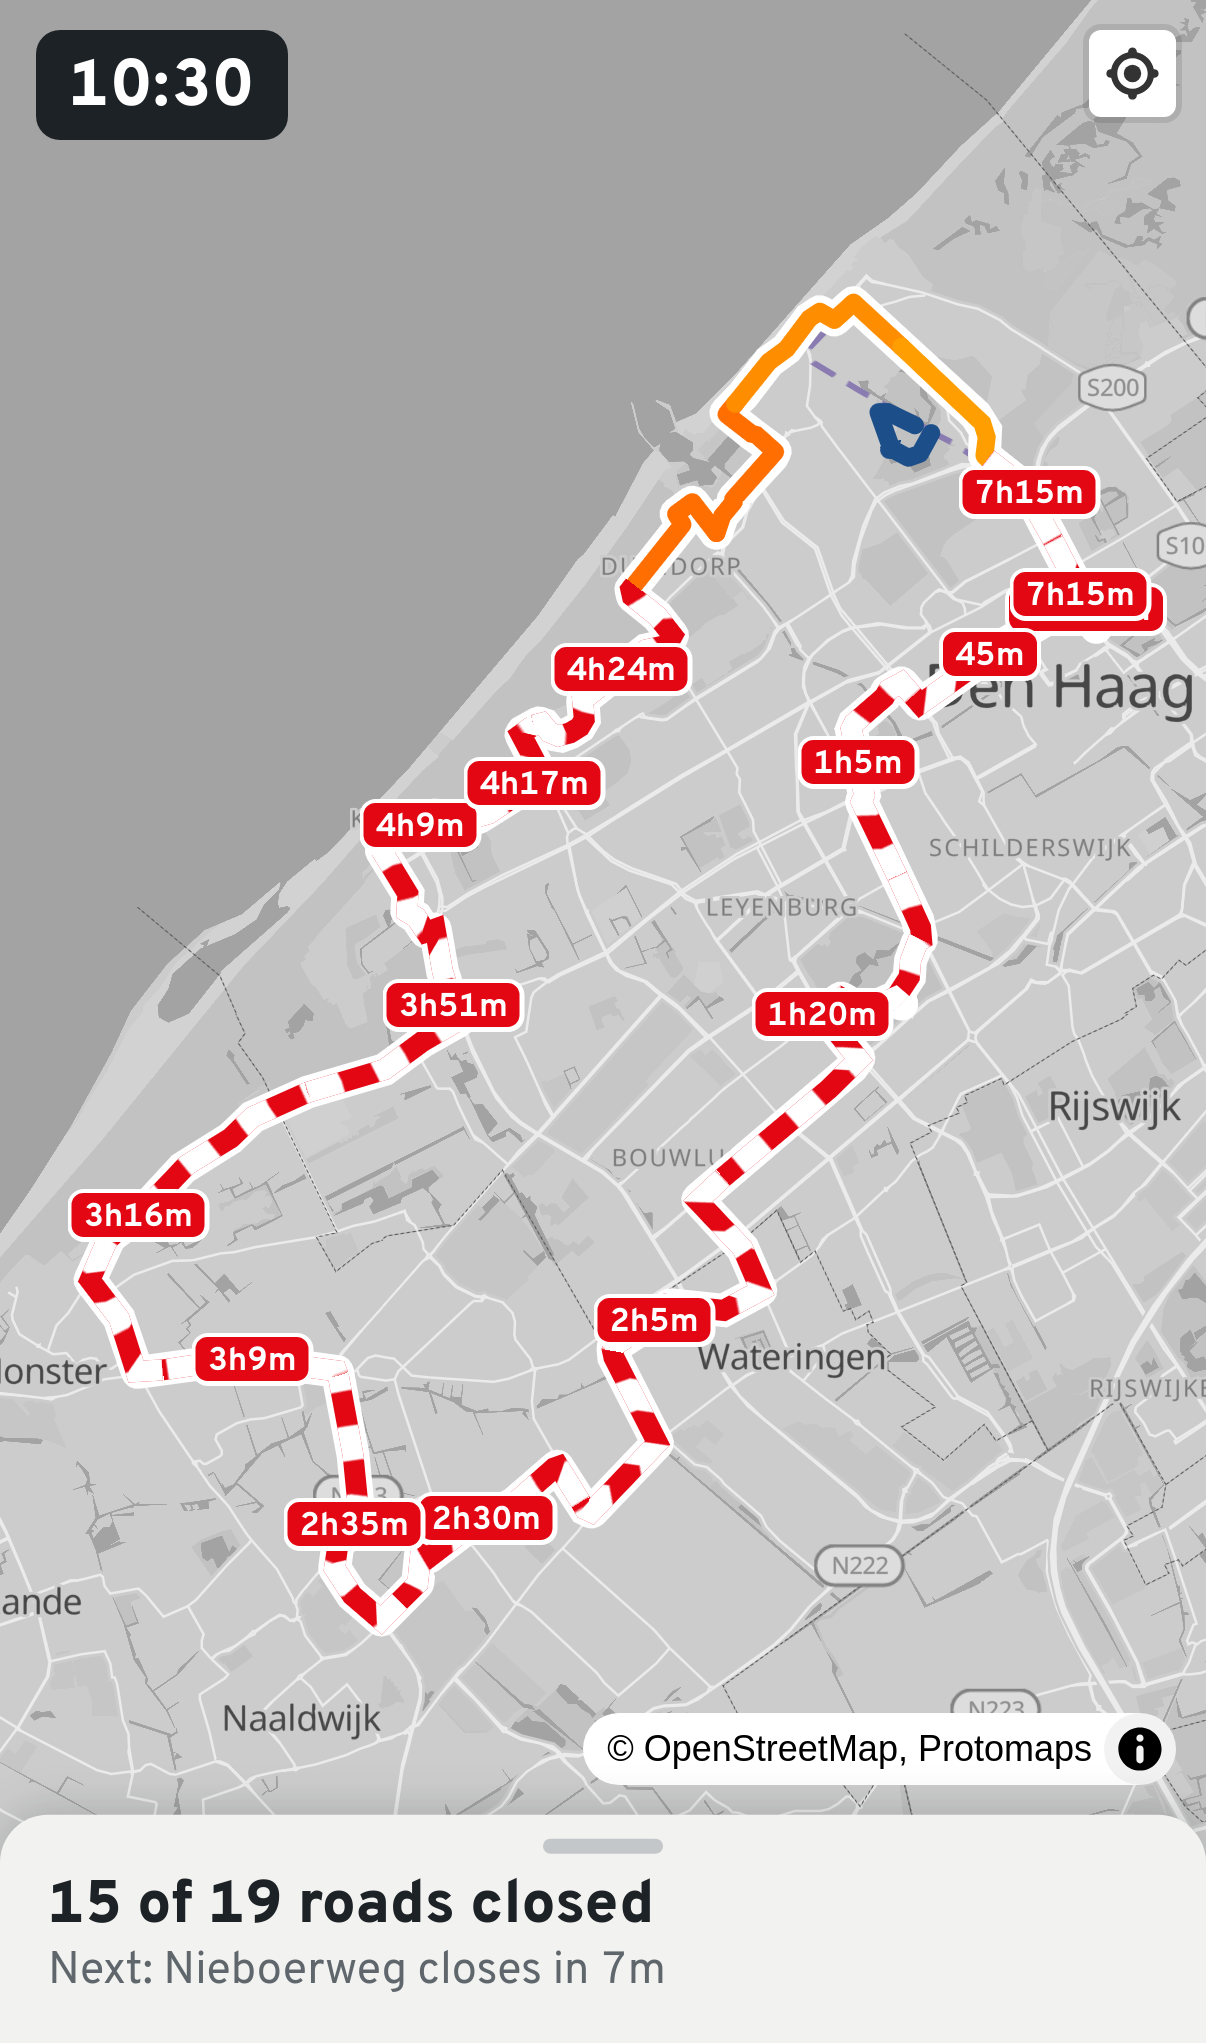
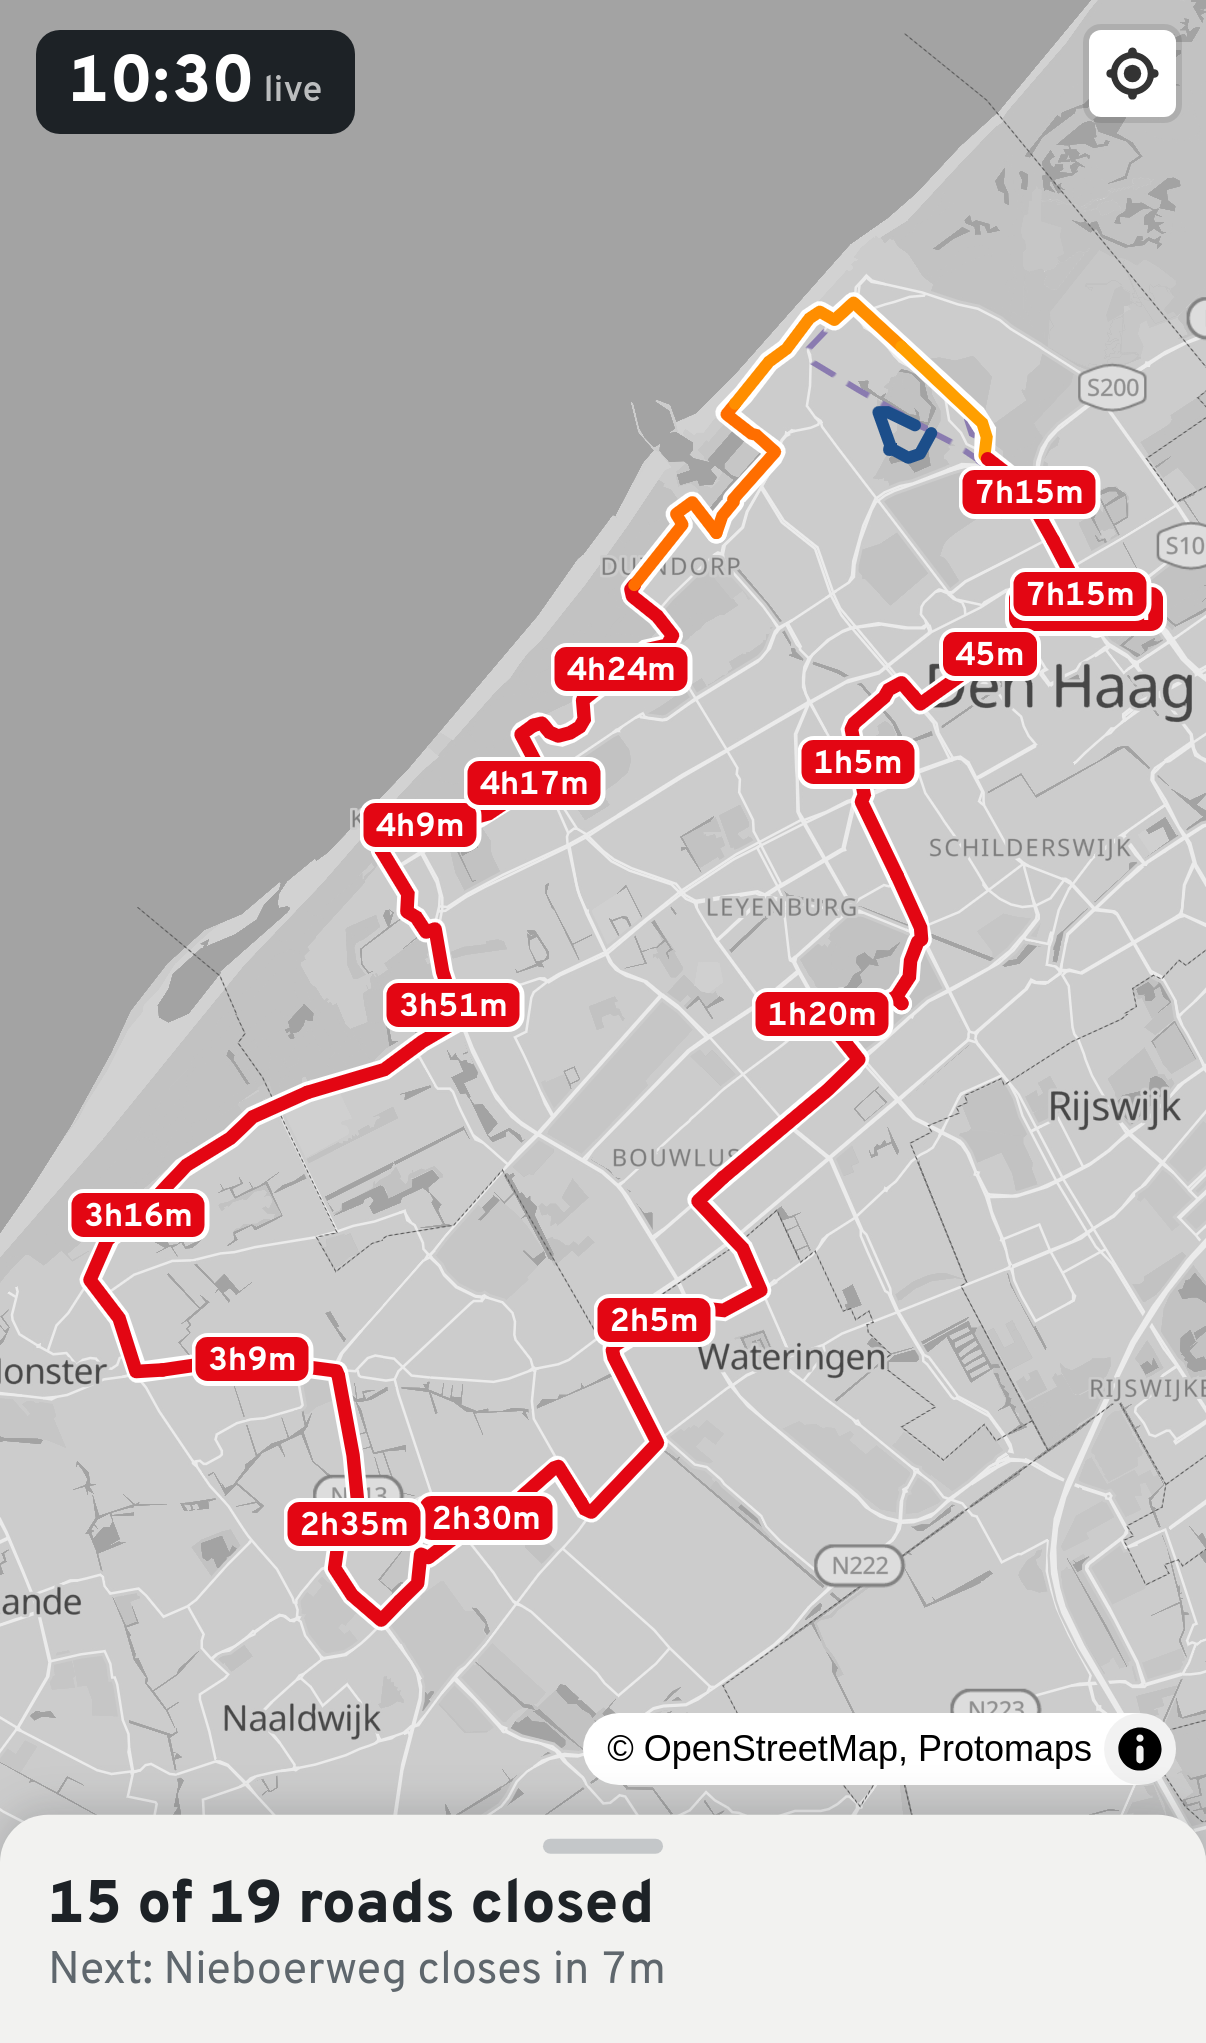
Solid red closures, thinner lines, time travel
Closed chunks are solid red and every route line is thinner. Tapping the
clock opens a slider over race day (04:00 to 22:00) that previews any
moment; Back to live returns to now. Each chunk is its own layer with
constant paint, because WebKit did not repaint after data-driven updates
that go through the map worker.

Part of #1

diff --git a/app.js b/app.js
@@ -3,7 +3,7 @@ import data from './data.js';
 
 // Open chunks are shaded by minutes until they close: signage blue far off, orange when close.
 const RAMP = [[0, '#ff5a00'], [30, '#ffb000'], [90, '#3d8bd9'], [240, '#1c4e8a']];
-const TAPE = '#e30613', GONE = '#9aa0a6';
+const CLOSED = '#e30613', GONE = '#9aa0a6';
 
 // Where a closure stands at time `now`: its state and the next change.
 function status(c, now) {
@@ -81,15 +81,18 @@ async function start() {
   maplibregl.addProtocol('pmtiles', protocol.tile);
 
   const line = (coords, props = {}) => ({ type: 'Feature', properties: props, geometry: { type: 'LineString', coordinates: coords } });
-  const chunks = (now) => ({
-    type: 'FeatureCollection',
-    features: data.closures.map((c, i) => {
-      const st = status(c, now);
-      return line(c.line, { i, state: st.state, mins: st.mins });
-    }),
-  });
+  const chunks = { type: 'FeatureCollection', features: data.closures.map((c, i) => line(c.line, { i })) };
+  // One layer per chunk with constant paint: changing it redraws at once, without re-processing tiles
+  // in the worker (after which WebKit does not always repaint).
+  const chunkIds = data.closures.map((c, i) => `chunk-${i}`);
+  const paint = (c, now) => {
+    const st = status(c, now);
+    return {
+      'line-color': { open: rampColor(st.mins), closed: CLOSED, done: GONE }[st.state],
+      'line-width': { open: 4, closed: 4.5, done: 3 }[st.state],
+    };
+  };
   const round = { 'line-join': 'round', 'line-cap': 'round' };
-  const state = (s) => ['==', ['get', 'state'], s];
   const other = { 'line-color': '#8a7bb0', 'line-width': 2, 'line-dasharray': [2.5, 1.5] };
 
   // The course layers are part of the initial style, so they draw with the first frame.
@@ -105,21 +108,16 @@ async function start() {
         '10k': { type: 'geojson', data: line(data.routes['10k']) },
         '5k': { type: 'geojson', data: line(data.routes['5k']) },
         marathon: { type: 'geojson', data: line(data.routes.marathon) },
-        chunks: { type: 'geojson', data: chunks(Date.now()) },
+        chunks: { type: 'geojson', data: chunks },
       },
       layers: [
         ...layers,
         { id: '10k', type: 'line', source: '10k', paint: other },
         { id: '5k', type: 'line', source: '5k', paint: other },
-        { id: 'casing', type: 'line', source: 'marathon', layout: round, paint: { 'line-color': '#fff', 'line-width': 11 } },
-        { id: 'open', type: 'line', source: 'chunks', filter: state('open'), layout: round, paint: {
-          'line-color': ['interpolate', ['linear'], ['get', 'mins'], ...RAMP.flat()], 'line-width': 6,
-        } },
-        { id: 'done', type: 'line', source: 'chunks', filter: state('done'), layout: round,
-          paint: { 'line-color': GONE, 'line-width': 4 } },
-        { id: 'closed', type: 'line', source: 'chunks', filter: state('closed'), paint: { 'line-color': TAPE, 'line-width': 7 } },
-        { id: 'closed-stripes', type: 'line', source: 'chunks', filter: state('closed'),
-          paint: { 'line-color': '#fff', 'line-width': 7, 'line-dasharray': [1, 1] } },
+        { id: 'casing', type: 'line', source: 'marathon', layout: round, paint: { 'line-color': '#fff', 'line-width': 7 } },
+        ...data.closures.map((c, i) => ({
+          id: chunkIds[i], type: 'line', source: 'chunks', filter: ['==', ['get', 'i'], i], layout: round, paint: paint(c, Date.now()),
+        })),
       ],
     },
     bounds,
@@ -129,7 +127,8 @@ async function start() {
   });
   document.getElementById('loading').remove();
   map.addControl(new maplibregl.GeolocateControl({ positionOptions: { enableHighAccuracy: true }, trackUserLocation: true }));
-  map.on('load', () => update());
+  let loaded = false;
+  map.on('load', () => { loaded = true; update(); });
 
   const sheet = document.getElementById('sheet');
   const handle = document.getElementById('handle');
@@ -155,29 +154,47 @@ async function start() {
     return { c, badge, li };
   });
 
-  for (const id of ['open', 'done', 'closed']) {
-    map.on('click', id, (e) => {
-      const { li } = items[e.features[0].properties.i];
-      expand(true);
-      for (const it of items) it.li.classList.toggle('flash', it.li === li);
-      li.scrollIntoView({ block: 'center' });
-    });
-    map.on('mouseenter', id, () => { map.getCanvas().style.cursor = 'pointer'; });
-    map.on('mouseleave', id, () => { map.getCanvas().style.cursor = ''; });
-  }
+  map.on('click', chunkIds, (e) => {
+    const { li } = items[e.features[0].properties.i];
+    expand(true);
+    for (const it of items) it.li.classList.toggle('flash', it.li === li);
+    li.scrollIntoView({ block: 'center' });
+  });
+
+  // Time travel: when `travel` is set, the whole page shows that moment instead of now.
+  let travel = null;
+  const clock = document.getElementById('clock');
+  const panel = document.getElementById('travel');
+  const slider = document.getElementById('slider');
+  const [dayStart, dayEnd] = [Date.parse('2026-11-01T04:00:00+01:00'), Date.parse('2026-11-01T22:00:00+01:00')];
+  slider.min = dayStart; slider.max = dayEnd; slider.step = 5 * 60e3;
+  const setTravel = (t) => {
+    travel = t;
+    document.body.classList.toggle('travelling', t !== null);
+    panel.hidden = t === null;
+    clock.setAttribute('aria-expanded', t !== null);
+    if (t !== null) slider.value = t;
+    update();
+  };
+  clock.onclick = () => setTravel(travel === null ? Math.min(Math.max(Date.now(), dayStart), dayEnd) : null);
+  slider.oninput = () => setTravel(Number(slider.value));
+  document.getElementById('live').onclick = () => setTravel(null);
 
   function update() {
-    const now = Date.now();
-    document.getElementById('clock').textContent = clockFmt.format(now);
-    map.getSource('chunks')?.setData(chunks(now));
+    const now = travel ?? Date.now();
+    clock.textContent = clockFmt.format(now);
+    if (loaded) {
+      data.closures.forEach((c, i) => {
+        for (const [k, v] of Object.entries(paint(c, now))) map.setPaintProperty(chunkIds[i], k, v);
+      });
+    }
     const sorted = items.map((it) => ({ ...it, st: status(it.c, now) })).sort((a, b) => a.st.next - b.st.next || a.c.n - b.c.n);
     for (const { c, badge, li, st } of sorted) {
       const t = left(st.next - now);
       badge.hidden = st.state !== 'closed';
       badge.textContent = t;
       const swatch = li.querySelector('.swatch');
-      swatch.classList.toggle('tape', st.state === 'closed');
-      swatch.style.background = st.state === 'open' ? rampColor(st.mins) : st.state === 'done' ? GONE : '';
+      swatch.style.background = { open: rampColor(st.mins), closed: CLOSED, done: GONE }[st.state];
       li.classList.toggle('done', st.state === 'done');
       li.querySelector('.left').innerHTML = st.state === 'done' ? '<small>reopened</small>' : `<small>${st.text}</small>${t}`;
       rows.appendChild(li);

diff --git a/style.css b/style.css
@@ -8,7 +8,7 @@
   --ink: #1d2226;
   --muted: #5f676d;
   --paper: #f2f2f0;
-  --tape: #e30613;
+  --closed: #e30613;
   --sign: #1c4e8a;
   --gone: #9aa0a6;
   --sheet-peek: calc(env(safe-area-inset-bottom) + 76px);
@@ -25,15 +25,29 @@ body {
 
 #clock {
   position: fixed; z-index: 2; left: 12px; top: calc(env(safe-area-inset-top) + 10px);
-  padding: 4px 11px 2px; border-radius: 8px; background: var(--ink); color: #fff;
-  font-size: 22px; font-weight: 800; letter-spacing: 0.02em;
+  padding: 4px 11px 2px; border: 0; border-radius: 8px; background: var(--ink); color: #fff;
+  font: 800 22px/1.3 Overpass, system-ui, sans-serif; font-variant-numeric: tabular-nums; letter-spacing: 0.02em;
+  cursor: pointer;
+}
+#clock::after { content: ' live'; font-size: 12px; font-weight: 600; opacity: 0.7; letter-spacing: 0; }
+.travelling #clock { background: var(--sign); }
+.travelling #clock::after { content: ' preview'; }
+#clock:focus-visible, #live:focus-visible { outline: 3px solid var(--closed); outline-offset: 2px; }
+
+#travel {
+  position: fixed; z-index: 2; left: 12px; right: 12px; top: calc(env(safe-area-inset-top) + 56px);
+  display: flex; gap: 10px; align-items: center; padding: 10px 12px;
+  border-radius: 12px; background: var(--paper); box-shadow: 0 2px 12px rgb(29 34 38 / 0.2);
+}
+#travel[hidden] { display: none; }
+#slider { flex: 1; min-width: 0; accent-color: var(--sign); height: 32px; }
+#live {
+  padding: 8px 10px 6px; border: 0; border-radius: 8px; background: var(--ink); color: #fff;
+  font: 700 14px/1.2 Overpass, system-ui, sans-serif; white-space: nowrap;
 }
 
-/* Barrier tape: the one loud thing, used wherever "closed" appears. */
-.tape { background: repeating-linear-gradient(-45deg, var(--tape) 0 6px, #fff 6px 12px); }
-
 .badge {
-  padding: 1px 4px 0; border-radius: 4px; background: var(--tape); color: #fff;
+  padding: 1px 4px 0; border-radius: 4px; background: var(--closed); color: #fff;
   font: 700 11px/1.25 Overpass, system-ui, sans-serif; font-variant-numeric: tabular-nums;
   box-shadow: 0 0 0 1.5px #fff; pointer-events: none;
 }
@@ -64,6 +78,7 @@ body {
 .legend > span:nth-child(odd) { height: 7px; border-radius: 2px; }
 .ramp { background: linear-gradient(90deg, #ff5a00, #ffb000, #3d8bd9, var(--sign)); }
 .gone { background: var(--gone); }
+.legend .closed { background: var(--closed); }
 .other { background: repeating-linear-gradient(90deg, #8a7bb0 0 5px, transparent 5px 8px); }
 
 ol { list-style: none; margin: 0; padding: 0; }
@@ -81,7 +96,7 @@ li.done .streets, li.done .left { color: var(--muted); font-weight: 600; }
 .note { color: var(--muted); font-size: 12px; max-width: 60ch; }
 
 #update {
-  position: fixed; z-index: 4; left: 12px; right: 12px; top: calc(env(safe-area-inset-top) + 56px);
+  position: fixed; z-index: 4; left: 12px; right: 12px; top: calc(env(safe-area-inset-top) + 118px);
   padding: 13px; border: 0; border-radius: 10px; background: var(--sign); color: #fff;
   font: 700 15px Overpass, system-ui, sans-serif;
 }

diff --git a/index.html b/index.html
@@ -19,7 +19,11 @@
 </head>
 <body>
 <div id="map"><p id="loading">Loading the offline map</p></div>
-<time id="clock"></time>
+<button id="clock" aria-expanded="false" aria-controls="travel" aria-label="Clock. Tap to look at another time"></button>
+<div id="travel" hidden>
+  <input id="slider" type="range" aria-label="Time on race day">
+  <button id="live">Back to live</button>
+</div>
 <section id="sheet" class="collapsed" aria-label="Road closures">
   <button id="handle" aria-expanded="false" aria-controls="details">
     <span class="grip"></span>
@@ -28,7 +32,7 @@
   </button>
   <div id="details">
     <div class="legend">
-      <span class="tape"></span><span>closed</span>
+      <span class="closed"></span><span>closed</span>
       <span class="ramp"></span><span>open, closes in 0m to 4h</span>
       <span class="gone"></span><span>reopened</span>
       <span class="other"></span><span>10K and 5K</span>

diff --git a/sw.js b/sw.js
@@ -1,5 +1,5 @@
 // Bump VERSION to ship an update. Every file is cached at install and served from the cache only.
-const VERSION = 'v2';
+const VERSION = 'v3';
 const FONTS = ['Noto Sans Regular', 'Noto Sans Medium', 'Noto Sans Italic'].flatMap((f) =>
   ['0-255', '256-511', '8192-8447'].map((r) => `map/fonts/${f}/${r}.pbf`));
 const FILES = [

diff --git a/README.md b/README.md
@@ -7,6 +7,7 @@ Live: https://djosh34.github.io/marathon_den_haag_tracker_2026/
 - Closure times come from the official closure map on the [travel info page](https://nnmarathonthehague.nl/en/travel-info/). The course GPX files come from the [course page](https://nnmarathonthehague.nl/en/course/). The times are indicative.
 - `tools/build_data.py` builds `data.js` from the GPX files and the closure list.
 - Map tiles: a Protomaps extract (`map/hague.pmtiles`, zoom 0–14).
+- Tap the clock to look at another time of race day with a slider. "Back to live" returns to now.
 - To ship a change, bump `VERSION` in `sw.js`. Open phones get a "tap to update" banner.
 
 ## Test
@@ -17,4 +18,4 @@ podman run --rm --network host --ipc host -v "$PWD":/work:Z -w /work \
   mcr.microsoft.com/playwright:v1.64.1-noble node tools/test.mjs
 ```
 
-The test runs Playwright WebKit with the `iPhone 17 Pro` profile. It writes screenshots at race-day times to `screenshots/`, checks that a closure changes live, and reloads offline expecting zero network requests.
+The test runs Playwright WebKit with the `iPhone 17 Pro` profile. It writes screenshots at race-day times to `screenshots/`, checks the time-travel slider, checks that a closure changes live, and reloads offline expecting zero network requests.
